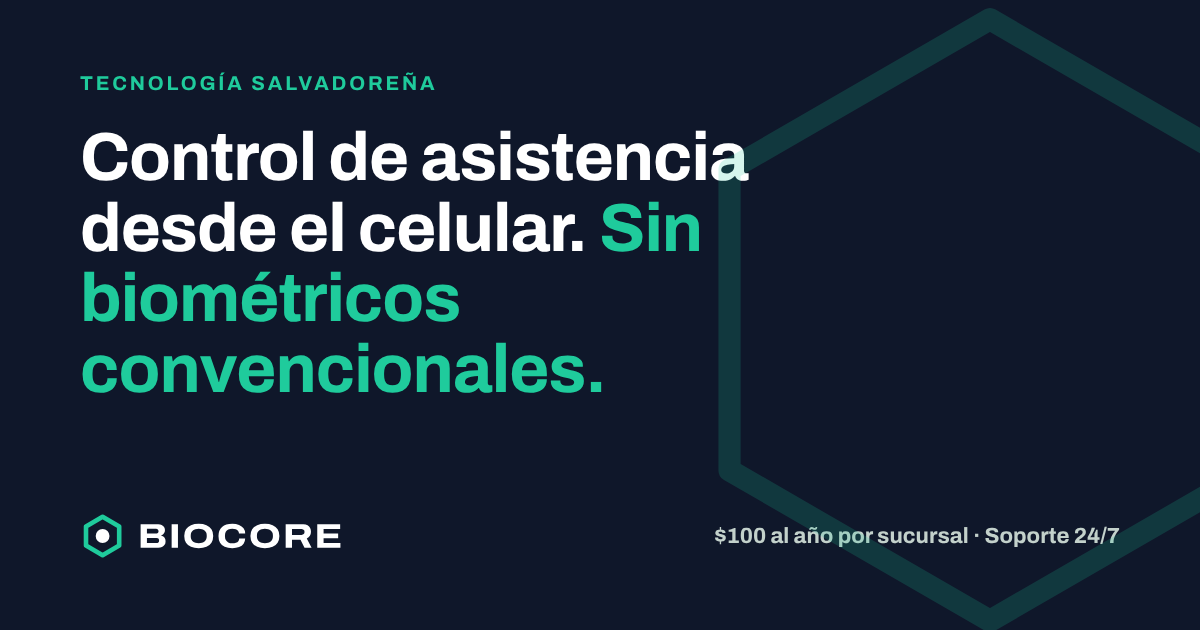
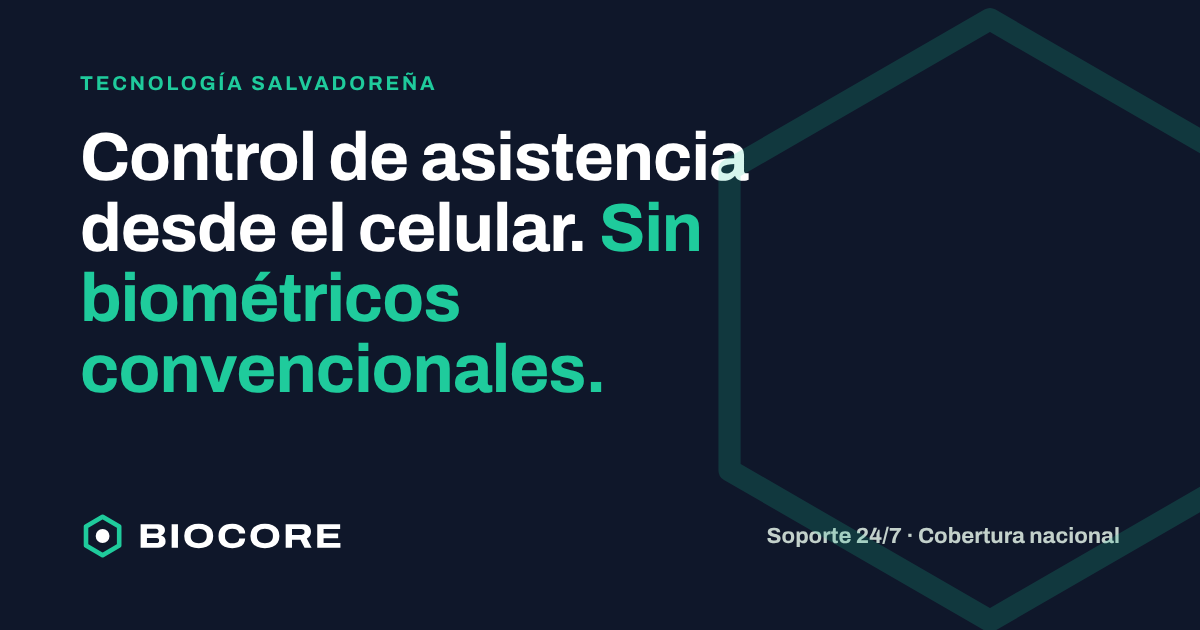
Quita el precio de la página
Se retira el precio de $100 al año por sucursal de la portada, la
franja de respaldo, la comparativa, la descripción para buscadores y la
imagen para compartir. La sección de precio pasa a ser "Respaldo", con
lo que incluye BIOCORE, soporte 24/7, cobertura nacional y hecho en El
Salvador.

Claude-Session: https://claude.ai/code/session_012ZoR91gWBUeKeU2MVC1aGN

Changed region(s): [[0.5858, 0.8143, 0.9558, 0.8746]]

diff --git a/index.html b/index.html
@@ -4,7 +4,7 @@
 <meta charset="utf-8">
 <meta name="viewport" content="width=device-width, initial-scale=1">
 <title>BIOCORE · Control de asistencia desde el celular</title>
-<meta name="description" content="Biometría 100 % software hecha en El Salvador. Tus empleados marcan con reconocimiento facial desde su celular, con ubicación y reportes listos para planilla. Sin biométricos convencionales. $100 al año por sucursal.">
+<meta name="description" content="Biometría 100 % software hecha en El Salvador. Tus empleados marcan con reconocimiento facial desde su celular, con ubicación y reportes listos para planilla. Sin biométricos convencionales.">
 <meta name="theme-color" content="#13261F">
 <link rel="icon" href="favicon.svg" type="image/svg+xml">
 <link rel="icon" href="favicon.ico" sizes="any">
@@ -14,7 +14,7 @@
 <meta property="og:locale" content="es_SV">
 <meta property="og:site_name" content="BIOCORE">
 <meta property="og:title" content="BIOCORE · Control de asistencia desde el celular">
-<meta property="og:description" content="Tus empleados marcan con reconocimiento facial desde su celular. Sin biométricos convencionales. Tecnología salvadoreña, soporte 24/7 y $100 al año por sucursal.">
+<meta property="og:description" content="Tus empleados marcan con reconocimiento facial desde su celular. Sin biométricos convencionales. Tecnología salvadoreña, con soporte 24/7 y cobertura nacional.">
 <!-- Al tener el dominio, cambiar por la dirección completa: https://TU-DOMINIO/img/compartir.png -->
 <meta property="og:image" content="img/compartir.png">
 <meta property="og:image:width" content="1200">
@@ -68,7 +68,7 @@
       <a href="#soluciones">Soluciones</a>
       <a href="#diferencia">Por qué BIOCORE</a>
       <a href="#modulos">Módulos</a>
-      <a href="#precio">Precio</a>
+      <a href="#respaldo">Respaldo</a>
       <a href="#contacto">Contacto</a>
       <a class="boton boton--marca boton--movil" href="#contacto">Solicita tu demo</a>
     </nav>
@@ -93,7 +93,7 @@
         <ul class="sellos">
           <li><svg class="ico" aria-hidden="true"><use href="#i-soporte"/></svg>Soporte 24/7</li>
           <li><svg class="ico" aria-hidden="true"><use href="#i-mapa"/></svg>Cobertura nacional</li>
-          <li><svg class="ico" aria-hidden="true"><use href="#i-calendario"/></svg>$100 al año por sucursal</li>
+          <li><svg class="ico" aria-hidden="true"><use href="#i-celular"/></svg>Sin equipos que comprar</li>
         </ul>
       </div>
 
@@ -148,7 +148,7 @@
     <dl class="contenedor franja__grilla">
       <div><dt>24/7</dt><dd>Soporte técnico a cualquier hora, todos los días del año.</dd></div>
       <div><dt>Todo el país</dt><dd>Cobertura en los 14 departamentos, de Ahuachapán a La Unión.</dd></div>
-      <div><dt>$100 al año</dt><dd>Por sucursal, en un solo pago anual.</dd></div>
+      <div><dt>100 % software</dt><dd>Motor facial propio, hecho en El Salvador.</dd></div>
       <div><dt>0 equipos</dt><dd>Ni compra, ni instalación, ni mantenimiento.</dd></div>
     </dl>
   </section>
@@ -259,11 +259,6 @@
               <th scope="row">Origen y soporte</th>
               <td class="viejo" data-etiqueta="Biométrico convencional">Tecnología traída de fuera.</td>
               <td class="biocore" data-etiqueta="BIOCORE">Tecnología salvadoreña, con soporte 24/7.</td>
-            </tr>
-            <tr>
-              <th scope="row">Costo</th>
-              <td class="viejo" data-etiqueta="Biométrico convencional">Inversión en equipos, más mantenimiento.</td>
-              <td class="biocore" data-etiqueta="BIOCORE"><strong>$100 al año por sucursal</strong>, en un solo pago.</td>
             </tr>
           </tbody>
         </table>
@@ -556,18 +551,18 @@
     </div>
   </section>
 
-  <!-- ═════ Precio y respaldo ═════ -->
-  <section class="seccion seccion--blanca" id="precio" aria-labelledby="titulo-precio">
+  <!-- ═════ Respaldo ═════ -->
+  <section class="seccion seccion--blanca" id="respaldo" aria-labelledby="titulo-respaldo">
     <div class="contenedor pila">
       <div class="cabecera-seccion">
-        <p class="etiqueta">Precio y respaldo</p>
-        <h2 class="titulo-seccion" id="titulo-precio">Un pago al año por sucursal. Sin equipos que comprar.</h2>
+        <p class="etiqueta">Respaldo</p>
+        <h2 class="titulo-seccion" id="titulo-respaldo">Un sistema completo, con un equipo salvadoreño detrás.</h2>
       </div>
       <div class="precio-fila">
         <div class="precio oscuro">
           <svg class="hexagono-fondo" viewBox="0 0 48 48" aria-hidden="true"><path d="M24,5 L40.45,14.5 L40.45,33.5 L24,43 L7.55,33.5 L7.55,14.5 Z"/></svg>
-          <p class="etiqueta">Pago único anual</p>
-          <p class="precio__monto"><strong>$100</strong><span>al año por sucursal</span></p>
+          <p class="etiqueta">Qué incluye BIOCORE</p>
+          <p class="precio__titular">Todo lo que necesitas para controlar la asistencia.</p>
           <ul class="lista-check">
             <li><svg class="ico" aria-hidden="true"><use href="#i-check"/></svg>Panel de administración y pantalla de marcaje</li>
             <li><svg class="ico" aria-hidden="true"><use href="#i-check"/></svg>Reconocimiento facial con motor propio</li>
@@ -645,7 +640,7 @@
         <a href="#soluciones">Soluciones</a>
         <a href="#diferencia">Por qué BIOCORE</a>
         <a href="#modulos">Módulos</a>
-        <a href="#precio">Precio</a>
+        <a href="#respaldo">Respaldo</a>
         <a href="#contacto">Contacto</a>
       </nav>
     </div>

diff --git a/css/estilos.css b/css/estilos.css
@@ -378,9 +378,7 @@ section[id] { scroll-margin-top: 84px; }
 }
 .precio > * { position: relative; }
 .precio .hexagono-fondo { position: absolute; right: -170px; bottom: -190px; width: 420px; height: 420px; stroke: var(--brand-bright); stroke-width: 1.6; opacity: .16; }
-.precio__monto { display: flex; flex-wrap: wrap; align-items: baseline; gap: 4px 12px; }
-.precio__monto strong { font-size: clamp(72px, 8vw, 104px); line-height: 1; font-weight: 800; letter-spacing: -.02em; font-stretch: 110%; }
-.precio__monto span { font-size: 22px; line-height: 28px; font-weight: 700; color: var(--texto-sobre-noche); }
+.precio__titular { max-width: 520px; font-size: clamp(30px, 3.2vw, 40px); line-height: 1.12; font-weight: 800; letter-spacing: -.01em; font-stretch: 105%; }
 .lista-check { display: flex; flex-direction: column; gap: 14px; margin: 8px 0 0; padding: 0; list-style: none; font-size: 17px; line-height: 24px; }
 .lista-check li { display: flex; gap: 12px; align-items: flex-start; }
 .lista-check .ico { width: 22px; height: 22px; margin-top: 1px; color: var(--brand-bright); stroke-width: 2.6; }

diff --git a/README.md b/README.md
@@ -51,5 +51,5 @@ Cualquier hosting de sitios estáticos sirve. Con GitHub Pages:
 
 - Siempre decimos **"biométricos convencionales"**, nunca "reloj marcador".
 - Texto verde sobre fondo claro: `--brand-strong` (#007A5F). Botones verdes con texto oscuro, nunca blanco.
-- Precio: **$100 al año por sucursal**, pago único anual. El módulo de campo se activa solo si la empresa lo necesita.
+- La página no muestra precios por ahora. El módulo de campo se activa solo si la empresa lo necesita.
 - Las imágenes de los módulos (Dashboard, Sucursales, Reportes) están hechas en HTML a partir de las pantallas reales del sistema; se pueden cambiar por capturas reales.
